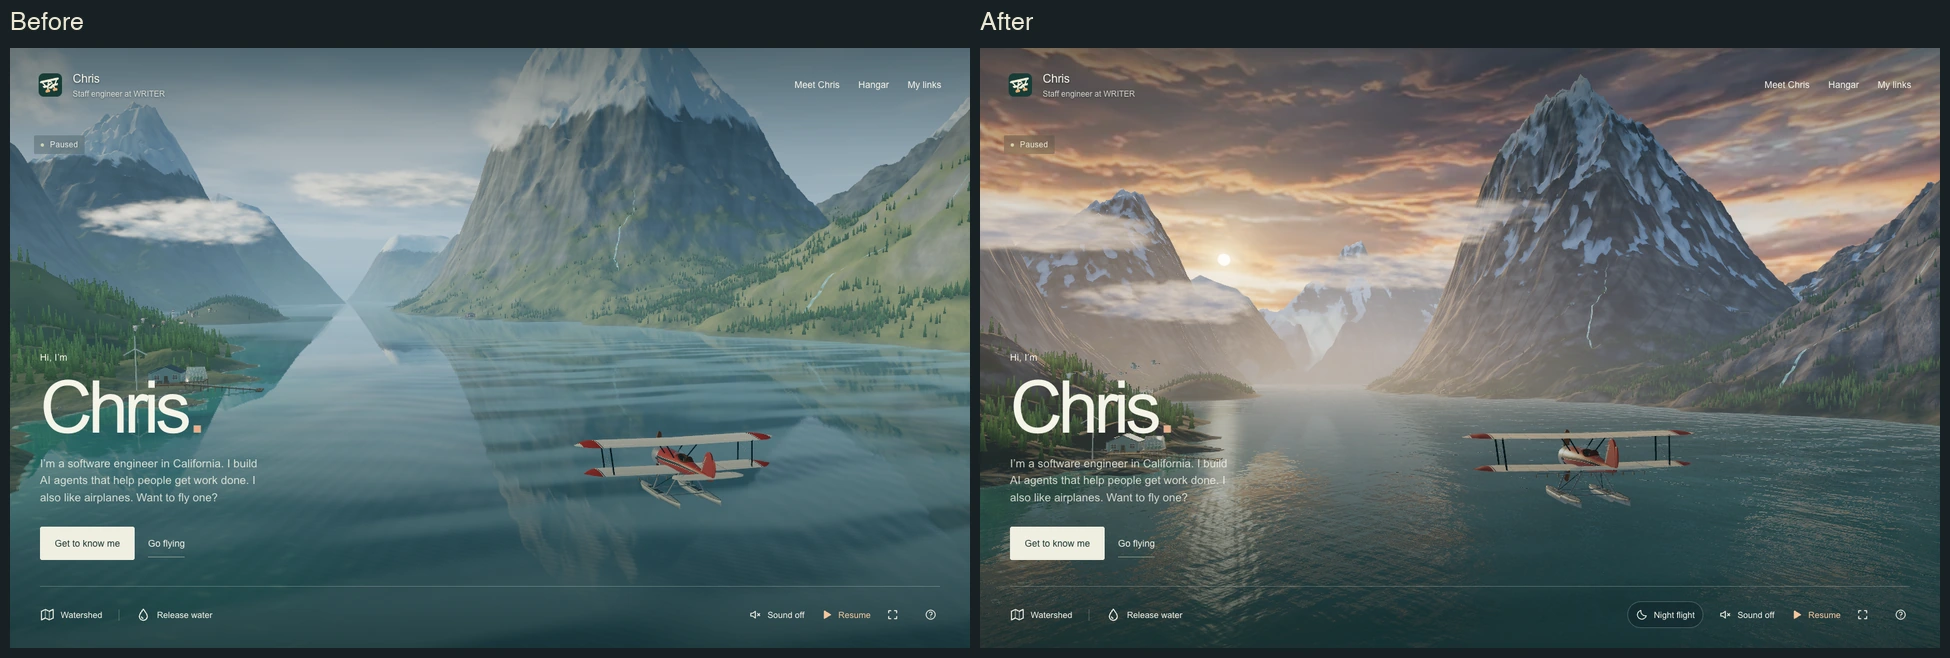
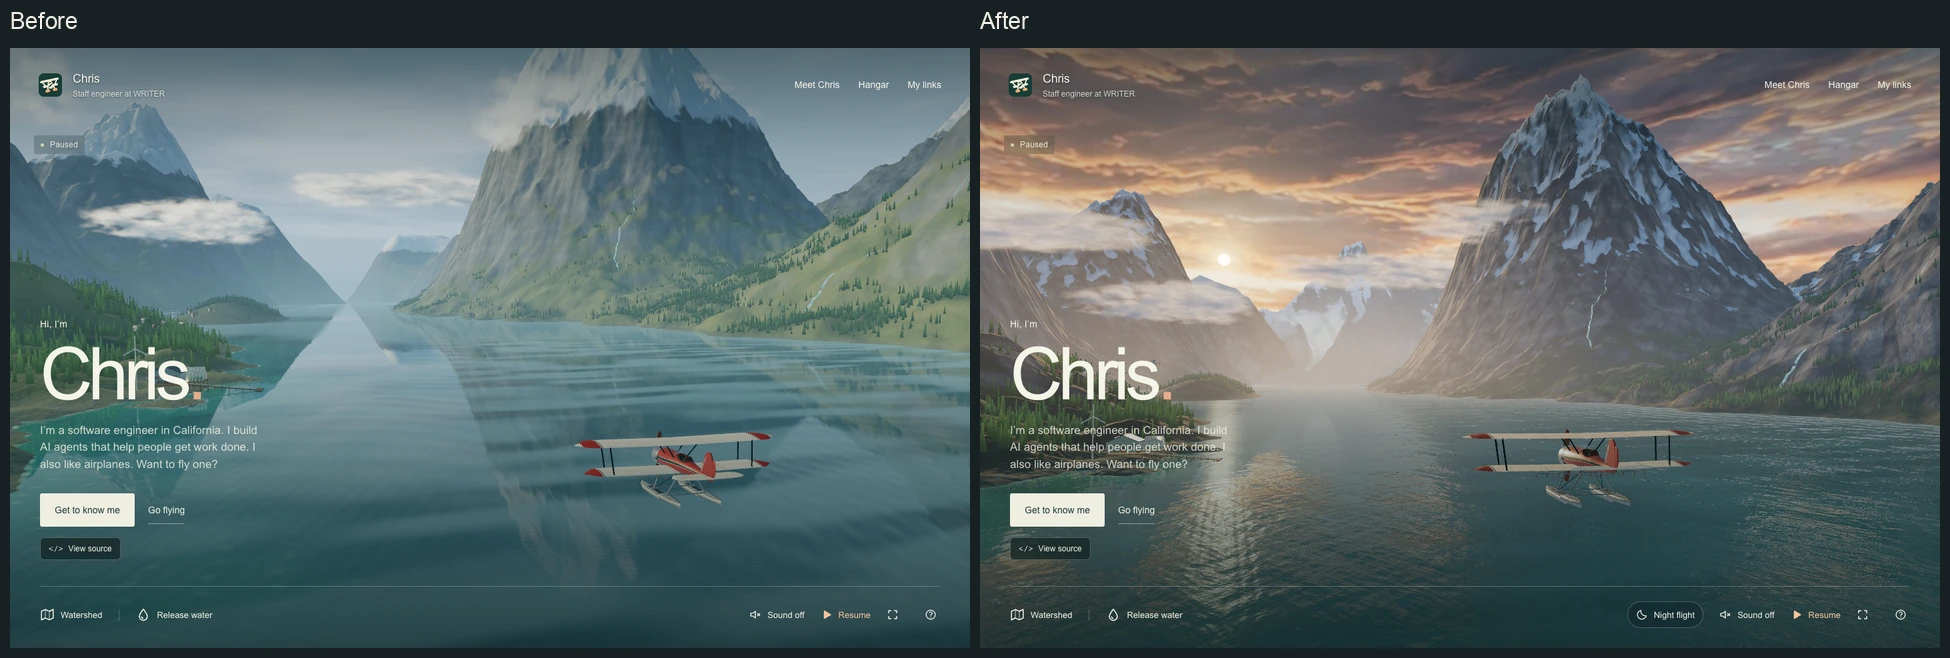
Record the public day and night flights and measure their frame times

diff --git a/CONCEPT.md b/CONCEPT.md
@@ -26,7 +26,7 @@ A clearing in the storm sends low light across the conifers, rock faces and lake
 
 ## What the renderer spends
 
-During development, three-second samples of the final lighting shaders on an M4 Pro in daylight flight, night flight and at the night dock each averaged 60 fps in Chromium. At 390 × 844 with phone emulation, the 95th-percentile GPU time was 6.56 ms in daylight, 6.72 ms in night flight and 7.98 ms at the night dock. [Render measurements](evidence/inlet-after-dark-timing.json)
+On the public preview of `07b2f80`, three-second samples on an M4 Pro averaged 60 fps in Chromium across daylight flight, night flight and the night dock. At 390 × 844 with phone emulation, the 95th-percentile GPU time was 6.95 ms in daylight, 6.84 ms in night flight and 3.79 ms at the night dock. [Render measurements](evidence/inlet-after-dark-timing.json)
 
 At first, switching to night and dropping below 45 m made Three compile up to 32 programs during flight. The largest frame gap in those tests was 433 ms. Keeping the same lights and station materials in both modes brought the longest gap to 16.8 ms in two development runs at each viewport. Across three fresh browser processes with the driver cache retained, median scene setup grew by 62 ms on desktop and 65 ms in portrait. The first observed desktop setup with the new shaders took 2.73 seconds. [First-flight measurements](evidence/inlet-night-transition.json)
 
